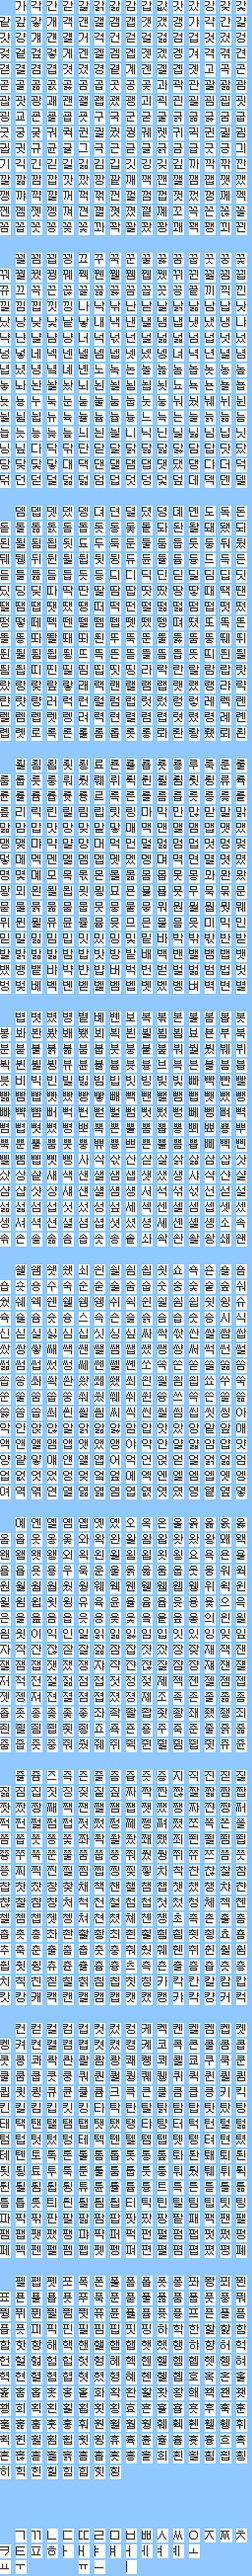
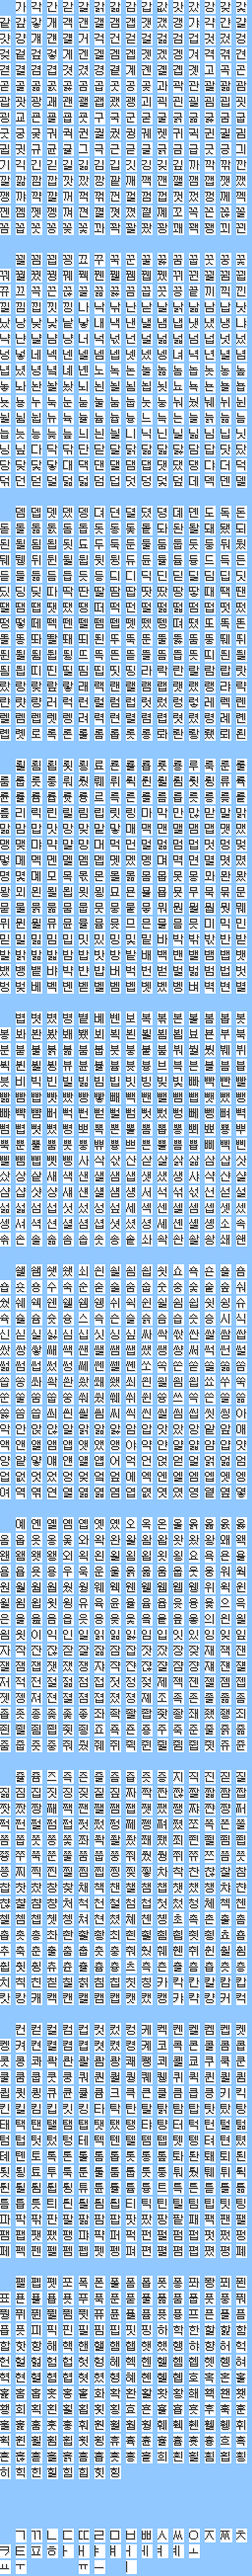
#7 참조 - 큰 폰트 변경
- 11pt에서 10pt로 변경
- 기존 10pt 폰트의 위치를 1픽셀 아래로 내림
- text.c에 작성한 주석 스타일 수정

diff --git a/gflib/text.c b/gflib/text.c
@@ -1755,7 +1755,7 @@ u16 RenderText(struct TextPrinter *textPrinter)
             return 1;
         }
 
-        /* 한글 문자 체크 & 문자 가져오기 */
+        // 한글 문자 체크 & 문자 가져오기
         if (CheckKoreanGlyph(currChar))
         {
             currChar = (currChar << 8) | *textPrinter->printerTemplate.currentChar;
@@ -2121,7 +2121,7 @@ s32 GetStringWidth(u8 fontId, const u8 *str, s16 letterSpacing)
         default:
             glyphWidth = func(*str, isJapanese);
 
-            /* 한글 문자일 경우 1바이트 건너뛰기 */
+            // 한글 문자일 경우 1바이트 건너뛰기
             if (CheckKoreanGlyph(*str))
                 str++;
 
@@ -2582,12 +2582,12 @@ void DecompressGlyphFont1(u16 glyphId, bool32 isJapanese)
         if (glyphId >= 0x3700)
         {
             u16 index = glyphId - 0x3700;
-            glyphs = gFont1KoreanGlyphs + (0x20 * index);
+            glyphs = gFont2KoreanGlyphs + (0x20 * index);
             DecompressGlyphTile(glyphs, gUnknown_03002F90.unk0);
             DecompressGlyphTile(glyphs + 0x8, gUnknown_03002F90.unk20);
             DecompressGlyphTile(glyphs + 0x10, gUnknown_03002F90.unk40);
             DecompressGlyphTile(glyphs + 0x18, gUnknown_03002F90.unk60);
-            gUnknown_03002F90.unk80 = 12;
+            gUnknown_03002F90.unk80 = 11;
             gUnknown_03002F90.unk81 = 15;
         }
         else
@@ -2616,12 +2616,16 @@ void DecompressGlyphFont1(u16 glyphId, bool32 isJapanese)
 u32 GetGlyphWidthFont1(u16 glyphId, bool32 isJapanese)
 {
     if (CheckKoreanGlyph(glyphId))
-        return 12;
+        return 11;
 
     if (isJapanese == TRUE)
+    {
         return 8;
+    }
     else
+    {
         return gFont1LatinGlyphWidths[glyphId];
+    }
 }
 
 void DecompressGlyphFont9(u16 glyphId)
